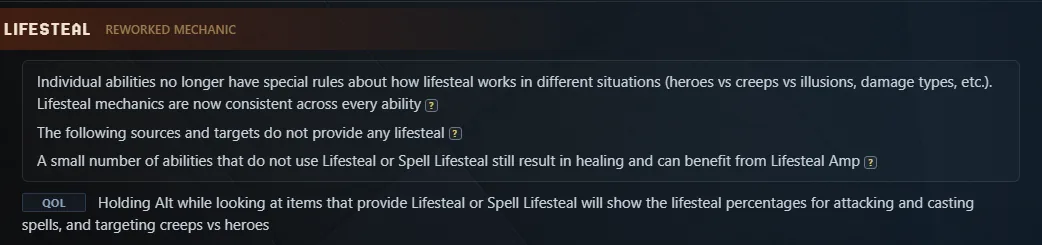
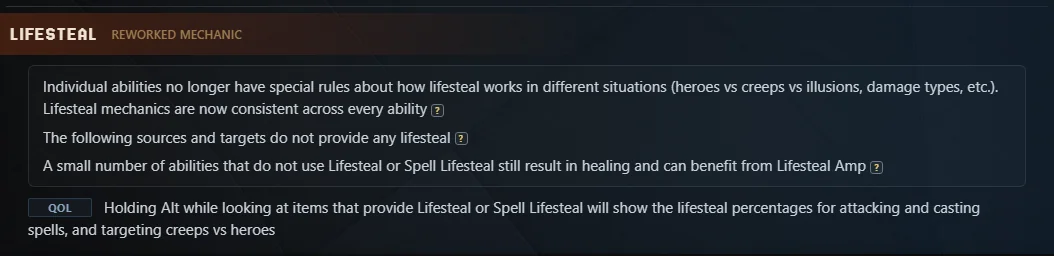
feat: Patches tab (was Changelogs), no version in the header corner; full-width changelog with notes beside tight, focused screenshots

diff --git a/styles.css b/styles.css
@@ -9881,8 +9881,8 @@ li.tsp-hidden { display: none !important; }
 }
 
 /* ---- Site changelog (changelog.html, builders/changelog.py) ---- */
-.clog-container { max-width: 1100px; margin: 0 auto; padding: 22px 20px 60px; }
-.clog-layout { display: grid; grid-template-columns: 150px 1fr; gap: 28px; align-items: start; }
+.clog-container { max-width: none; margin: 0; padding: 22px 32px 60px; }
+.clog-layout { display: grid; grid-template-columns: 160px minmax(0, 1fr); gap: 32px; align-items: start; }
 .clog-rail { position: sticky; top: 70px; display: flex; flex-direction: column; gap: 2px;
   max-height: calc(100vh - 90px); overflow-y: auto; }
 .clog-rail-month { font-family: 'Jersey 10', monospace; font-size: 17px; color: var(--gold);
@@ -9901,7 +9901,10 @@ li.tsp-hidden { display: none !important; }
 .clog-day { margin-bottom: 26px; scroll-margin-top: 70px; }
 .clog-date { font-family: 'Jersey 10', monospace; font-weight: 400; font-size: 24px; color: var(--gold);
   letter-spacing: .5px; margin: 0 0 10px; padding-bottom: 5px; border-bottom: 1px solid var(--line-soft); }
-.clog-entry { padding: 10px 0 12px; border-bottom: 1px solid var(--line-soft); }
+.clog-entry { padding: 12px 0 14px; border-bottom: 1px solid var(--line-soft); }
+/* wide screens: the notes on the left, the screenshots next to them */
+.clog-entry.has-shots { display: grid; grid-template-columns: minmax(300px, 1fr) minmax(0, 1.6fr); column-gap: 28px; align-items: start; }
+.clog-shots { display: flex; flex-direction: column; gap: 10px; }
 .clog-entry:last-child { border-bottom: 0; }
 .clog-entry-head { display: flex; align-items: baseline; gap: 10px; }
 .clog-title { margin: 0; font-size: 15px; font-weight: 600; color: var(--text-bright); }
@@ -9916,8 +9919,8 @@ li.tsp-hidden { display: none !important; }
 .clog-items li::marker { color: var(--gold); }
 .clog-open { display: inline-block; margin: 6px 0 0 20px; font-size: 12.5px; color: var(--gold); text-decoration: none; }
 .clog-open:hover { text-decoration: underline; }
-.clog-shot { display: block; margin: 10px 0 0 20px; max-width: 640px; }
-.clog-shot img { display: block; width: 100%; height: auto; border: 1px solid var(--line-soft);
+.clog-shot { display: block; width: fit-content; max-width: 100%; }
+.clog-shot img { display: block; max-width: 100%; height: auto; border: 1px solid var(--line-soft);
   border-radius: 6px; box-shadow: 0 4px 14px var(--shadow-45); }
 .clog-shot:hover img { border-color: var(--gold-dim); }
 .clog-page .clog-entry.is-hidden, .clog-page .clog-day.is-hidden, .clog-page .clog-rail-day.is-hidden { display: none; }
@@ -9926,6 +9929,10 @@ li.tsp-hidden { display: none !important; }
   .clog-rail { position: static; flex-direction: row; flex-wrap: wrap; max-height: none; }
   .clog-rail-month { width: 100%; }
   .clog-shot { margin-left: 0; }
+}
+@media (max-width: 1100px) {
+  .clog-entry.has-shots { grid-template-columns: 1fr; }
+  .clog-shots { margin-top: 10px; }
 }
 
 /* ==========================================================================

diff --git a/tools/changelog_shots.py b/tools/changelog_shots.py
@@ -1,15 +1,16 @@
-"""Screenshots for the site changelog (icons/changelog/*.webp).
+"""Screenshots for the site changelog (icons/changelog/*.webp) — tight, on the change itself.
 
-Serves nothing itself: point it at a running copy of dist/ (default http://localhost:8799,
-`python -m http.server 8799` from dist/). Each shot = a page + either a CSS selector for
-one block (optionally the block that contains some text) or the top of the page.
+Point it at a running copy of dist/ (default http://localhost:8799: `python -m http.server
+8799` from dist/). A shot = a page + a SCOPE (the whole page, one patch-page entity block by
+its name, or one row by its text) + the PARTS inside it to frame (CSS selectors, their
+union is captured, not the whole block) + optional elements to CLICK first (e.g. a formula
+trigger so its table is open) + a max height.
 
     python tools/changelog_shots.py            # all shots
     python tools/changelog_shots.py tormentor  # shots whose file name contains "tormentor"
 """
 import io
 import pathlib
-import re
 import sys
 
 from PIL import Image
@@ -18,26 +19,80 @@ from playwright.sync_api import sync_playwright
 ROOT = pathlib.Path(__file__).resolve().parent.parent
 OUT = ROOT / "icons" / "changelog"
 BASE = "http://localhost:8799/"
-MAX_H = 760            # tall blocks are cut to a readable preview
 WIDTH = 1280
+PAD = 6
 
-# (file, page, selector or None for the page top, text the block must contain)
-SHOTS = [
-    ("2026-09-24_tormentor.webp", "patches/7.38.html", ".entity-block", r"^Tormentor"),
-    ("2026-09-24_lifesteal.webp", "patches/7.38.html", ".entity-block", r"^Lifesteal"),
-    ("2026-09-24_abyssal.webp", "patches/7.38.html", ".entity-block", r"^Abyssal Blade"),
-    ("2026-09-23_roshan.webp", "units/roshan.html", None, None),
-    ("2026-09-22_unit_changes.webp", "unit_changes.html", None, None),
-    ("2026-09-17_hero_changes.webp", "hero_changes.html", None, None),
-]
+# file: (page, scope, parts, clicks, max_h)
+#   scope = None (page) | ("block", "<entity name>") | ("row", "<row text>")
+#   parts = selectors inside the scope (":scope" = the scope itself)
+SHOTS = {
+    "2026-09-24_tormentor.webp": ("patches/7.38.html", ("block", "Tormentor"),
+                                  [":scope > .entity", ":scope > ul.changes"], [], 560),
+    "2026-09-24_tormentor_card.webp": ("patches/7.38.html", ("block", "Tormentor"),
+                                       [":scope > .ability-change-block >> nth=0"],
+                                       [":scope > .ability-change-block >> nth=0 >> .ability-change-new .formula-trigger >> nth=0"], 520),
+    "2026-09-24_lifesteal.webp": ("patches/7.38.html", ("block", "Lifesteal"), [":scope"], [], 300),
+    "2026-09-24_abyssal.webp": ("patches/7.38.html", ("block", "Abyssal Blade"),
+                                [":scope > .properties-change", ":scope > ul.changes"], [], 260),
+    "2026-09-24_orb_of_frost.webp": ("patches/7.38.html", ("block", "Orb of Frost"), [":scope"], [], 220),
+    "2026-09-24_bounty.webp": ("patches/7.38.html", ("row", "Gold provided after the initial set"),
+                               [":scope"], [":scope .formula-trigger >> nth=0"], 220),
+    "2026-09-23_roshan.webp": ("units/roshan.html", None,
+                               [".container > section >> nth=0", ".container > section >> nth=1"], [], 330),
+    "2026-09-22_unit_changes.webp": ("unit_changes.html", None, [".ec-ugrid"], [], 420),
+    "2026-09-17_hero_changes.webp": ("hero_changes.html", None, [".ec-index-body"], [], 420),
+}
 
 
-def _save(png_bytes, name):
-    img = Image.open(io.BytesIO(png_bytes)).convert("RGB")
-    if img.height > MAX_H:
-        img = img.crop((0, 0, img.width, MAX_H))
+def _scope(page, scope):
+    if scope is None:
+        return page.locator("body")
+    kind, text = scope
+    if kind == "block":
+        name = page.locator(".entity-name").filter(has_text=text)
+        return page.locator(".entity-block").filter(has=name).first
+    return page.locator("li").filter(has_text=text).last          # the row itself, not its parents
+
+
+def _union_box(page, locs):
+    boxes = [loc.evaluate("e => { const r = e.getBoundingClientRect();"
+                          " return [r.left + scrollX, r.top + scrollY, r.right + scrollX, r.bottom + scrollY]; }")
+             for loc in locs]
+    x0 = min(b[0] for b in boxes) - PAD
+    y0 = min(b[1] for b in boxes) - PAD
+    x1 = max(b[2] for b in boxes) + PAD
+    y1 = max(b[3] for b in boxes) + PAD
+    return {"x": max(0, x0), "y": max(0, y0), "width": x1 - max(0, x0), "height": y1 - max(0, y0)}
+
+
+def shoot(page, name, spec):
+    url, scope, parts, clicks, max_h = spec
+    page.goto(BASE + url, wait_until="networkidle")
+    root = _scope(page, scope)
+    root.scroll_into_view_if_needed()
+    for sel in clicks:
+        root.locator(sel).first.click()
+        page.wait_for_timeout(250)
+    locs = [root if p == ":scope" else root.locator(p).first for p in parts]
+    locs[0].scroll_into_view_if_needed()
+    page.wait_for_timeout(300)
+    # pinned header / toolbars / floating buttons would paint over the shot: hide every
+    # fixed or sticky element that doesn't hold the framed parts
+    for loc in locs:
+        loc.evaluate("e => e.setAttribute('data-shot', '1')")
+    page.evaluate("""() => {
+        const keep = [...document.querySelectorAll('[data-shot]')];
+        for (const el of document.querySelectorAll('body *')) {
+            const pos = getComputedStyle(el).position;
+            if ((pos === 'fixed' || pos === 'sticky') && !keep.some(k => el.contains(k)))
+                el.style.setProperty('opacity', '0', 'important');
+        }
+    }""")
+    clip = _union_box(page, locs)
+    clip["height"] = min(clip["height"], max_h)
+    img = Image.open(io.BytesIO(page.screenshot(full_page=True, clip=clip))).convert("RGB")
     OUT.mkdir(parents=True, exist_ok=True)
-    img.save(OUT / name, "WEBP", quality=82, method=6)
+    img.save(OUT / name, "WEBP", quality=85, method=6)
     print(f"  {name}: {img.width}x{img.height}")
 
 
@@ -45,17 +100,9 @@ def main(only=None):
     with sync_playwright() as pw:
         browser = pw.chromium.launch()
         page = browser.new_page(viewport={"width": WIDTH, "height": 900})
-        for name, url, sel, text in SHOTS:
-            if only and only not in name:
-                continue
-            page.goto(BASE + url, wait_until="networkidle")
-            if sel is None:
-                _save(page.screenshot(), name)
-                continue
-            block = page.locator(sel, has=page.locator(".entity-name", has_text=re.compile(text))).first
-            block.scroll_into_view_if_needed()
-            page.wait_for_timeout(300)
-            _save(block.screenshot(), name)
+        for name, spec in SHOTS.items():
+            if not only or only in name:
+                shoot(page, name, spec)
         browser.close()
 
 

diff --git a/builders/site_common.py b/builders/site_common.py
@@ -64,7 +64,7 @@ def get_latest_version():
 # brand link on the left, so it's not duplicated here.
 NAV_TABS = [
     ("main",       "Main",         "index.html"),
-    ("changelogs", "Changelogs",   None),
+    ("changelogs", "Patches",      None),
     ("calendar",   "Calendar",     "calendar.html"),
     ("materials",  "Materials",    "neutral_stats.html"),
     ("changelog",  "Changelog",    "changelog.html"),     # what changed on the site (builders/changelog.py)
@@ -131,7 +131,7 @@ def render_top_nav(active, latest_href, *, patch_context=False, picker_html=None
     """Render the shared top nav.
 
     active        — one of the NAV_TABS keys ('main'/'changelogs'/...).
-    latest_href   — href for the Changelogs tab (the latest patch page),
+    latest_href   — href for the Patches tab (the latest patch page),
                     already relative-correct for the calling page.
     patch_context — True when rendered inside the patches/ folder; root
                     files (index/calendar/creeps) get a ../ prefix.
@@ -187,22 +187,12 @@ def render_top_nav(active, latest_href, *, patch_context=False, picker_html=None
     if picker_html:
         right_side = picker_html
     else:
-        # Non-patch pages: show the latest patch version as a NON-clickable
-        # display, except Materials pages which show the current table/page
-        # label there instead.
         materials_label = (get_materials_label(subtabs_active)
                            if active == "materials" and subtabs_active else "")
-        if active == "main":
-            ver_html = ''
-        elif materials_label:
-            ver_html = (f'<span class="version version-static version-materials">'
-                        f'{materials_label}</span>')
-        elif active == "calendar":
-            ver_html = ''
-        else:
-            latest_ver = get_latest_version()
-            ver_html = (f'<span class="version version-static">{latest_ver}</span>'
-                        if latest_ver else '')
+        # Only Materials pages label the right corner (the current table); elsewhere it stays
+        # empty — no latest-version label, the latest patch is one click away under Patches.
+        ver_html = (f'<span class="version version-static version-materials">'
+                    f'{materials_label}</span>') if materials_label else ''
         right_side = (
             f'<div class="nav-context nav-context-flat '
             f'nav-context-{active}">{ver_html}</div>'

diff --git a/builders/changelog.py b/builders/changelog.py
@@ -2,7 +2,7 @@
 
 Short notes on what changed on the SITE (not Dota patches): newest first, grouped by
 date, each entry with a category chip, 1-4 points, an optional link to the changed
-page and an optional screenshot (icons/changelog/*.webp, tools/changelog_shots.py).
+page and optional screenshots (icons/changelog/*.webp, tools/changelog_shots.py) beside the notes.
 Left rail = month / date navigation; category chips filter the entries.
 """
 import datetime as _dt
@@ -48,14 +48,16 @@ def _entry_html(e):
     items = "".join(f"<li>{_esc(x)}</li>" for x in e.get("items", []))
     link = (f'<a class="clog-open" href="{_esc(e["link"])}">Open page &rarr;</a>'
             if e.get("link") else "")
-    shot = ""
-    if e.get("shot") and _os.path.exists(_os.path.join(_HERE, e["shot"])):
-        shot = (f'<a class="clog-shot" href="{_esc(e["shot"])}" target="_blank" rel="noopener">'
-                f'<img src="{_esc(e["shot"])}" alt="{_esc(e["title"])}" loading="lazy"></a>')
-    return (f'<article class="clog-entry" data-cat="{_slug(e["category"])}">'
+    shots = "".join(
+        f'<a class="clog-shot" href="{_esc(p)}" target="_blank" rel="noopener">'
+        f'<img src="{_esc(p)}" alt="{_esc(e["title"])}" loading="lazy"></a>'
+        for p in e.get("shots", []) if _os.path.exists(_os.path.join(_HERE, p)))
+    cls = "clog-entry has-shots" if shots else "clog-entry"
+    return (f'<article class="{cls}" data-cat="{_slug(e["category"])}"><div class="clog-text">'
             f'<div class="clog-entry-head"><span class="clog-cat clog-cat-{_slug(e["category"])}">'
             f'{_esc(e["category"])}</span><h3 class="clog-title">{_esc(e["title"])}</h3></div>'
-            f'<ul class="clog-items">{items}</ul>{link}{shot}</article>')
+            f'<ul class="clog-items">{items}</ul>{link}</div>'
+            + (f'<div class="clog-shots">{shots}</div>' if shots else '') + '</article>')
 
 
 def render(entries):

diff --git a/patch/page.py b/patch/page.py
@@ -16,7 +16,7 @@ _ASSET_VERSION = _site.compute_asset_version()
 
 
 def write_head(version, date):
-    """Render head + top nav (Changelogs+Calendar tabs + version) + container + toolbar."""
+    """Render head + top nav (Patches+Calendar tabs + version) + container + toolbar."""
     _State.current_patch_version = version
     _State.current_entity_key = None
     _State.current_section_slug = None
@@ -40,7 +40,7 @@ def write_head(version, date):
 <html lang="en">
 <head>
 <meta charset="UTF-8">
-<title>SIKLE | Changelogs {version}</title>
+<title>SIKLE | Patch {version}</title>
 {_site.favicon_links(prefix="../")}<link rel="preconnect" href="https://fonts.googleapis.com">
 <link rel="preconnect" href="https://fonts.gstatic.com" crossorigin>
 <link rel="stylesheet" href="https://fonts.googleapis.com/css2?family=Jersey+10&family=Jersey+25&display=block">

diff --git a/tests/test_changelog.py b/tests/test_changelog.py
@@ -11,11 +11,11 @@ def test_changelog_entries_are_valid_and_newest_first():
     assert dates == sorted(dates, reverse=True)
     for e in entries:
         assert e["title"] and e.get("items"), e
-        if e.get("shot"):
-            assert os.path.exists(os.path.join(clog._HERE, e["shot"])), e["shot"]
+        for shot in e.get("shots", []):
+            assert os.path.exists(os.path.join(clog._HERE, shot)), shot
 
 
 def test_changelog_renders_rail_chips_and_entries():
     html = clog.render(clog.load_entries())
     assert 'class="clog-rail"' in html and 'class="clog-chip active"' in html
-    assert html.count('class="clog-entry"') == len(clog.load_entries())
+    assert html.count('<article class="clog-entry') == len(clog.load_entries())

diff --git a/patch/index_page.py b/patch/index_page.py
@@ -29,7 +29,7 @@ def save_index_html():
     # Terrain. Each link tile swaps its static PNG for an animated GIF on hover:
     # calendar (date burn, JS), patch (page-flip, CSS), terrain (levitate, CSS).
     _INV_LINKS = {
-        'patch':    ('Changelogs', f'patches/{latest}.html' if latest else 'calendar.html'),
+        'patch':    ('Patches',    f'patches/{latest}.html' if latest else 'calendar.html'),
         'calendar': ('Calendar',   'calendar.html'),
         'terrain':  ('Terrain',    'terrain_741.html'),
         'changelog': ('Changelog', 'changelog.html'),

diff --git a/docs/agent-rules/pages-and-pipeline.md b/docs/agent-rules/pages-and-pipeline.md
@@ -179,6 +179,7 @@ Start-Process python -ArgumentList "-m http.server 8765 --directory dist"
 
 ## Changelog сайта (`changelog.html`)
 - Данные: `data/changelog.json` (новые записи сверху). Одна запись = одно заметное пользователю изменение: `date`, `category` (Patch Reader / Materials / Hero Lab / Dynamics / Site), короткий `title`, 1–4 коротких `items`; по желанию `link` на страницу и `shot`.
-- Скриншот: добавить строку в `SHOTS` в `tools/changelog_shots.py`, поднять `python -m http.server 8799` из `dist/` и запустить `python tools/changelog_shots.py <часть имени>`. Картинка ляжет в `icons/changelog/*.webp`: блок по селектору или верх страницы, высота до 760 px.
+- Скриншоты: `"shots": [...]`, их может быть несколько на запись, на широком экране они стоят справа от текста. Снимаем **точечно, только само изменение**, а не весь блок или страницу. В `SHOTS` (`tools/changelog_shots.py`) задаются: страница; область (блок сущности по имени или строка по тексту); части внутри неё (CSS-селекторы, снимается их общий прямоугольник); что нажать перед съёмкой (например, открыть таблицу формулы); предел высоты. Закреплённые шапка и панели прячутся сами. Запуск: `python -m http.server 8799` из `dist/`, потом `python tools/changelog_shots.py <часть имени>`.
+- Шапка: вкладка латест-патча называется **Patches**; в правом углу шапки версии патча нет, там только название таблицы на страницах Materials.
 - Сборка: шаг `clog` (`builders/changelog.py`). Кнопка Changelog есть в шапке (`NAV_TABS`) и плиткой на главной (иконка typewriter). Тест: `tests/test_changelog.py`.
 - **Правило:** каждое заметное изменение сайта в том же коммите получает запись здесь. Пишем лаконично, по-английски, как сайт.
